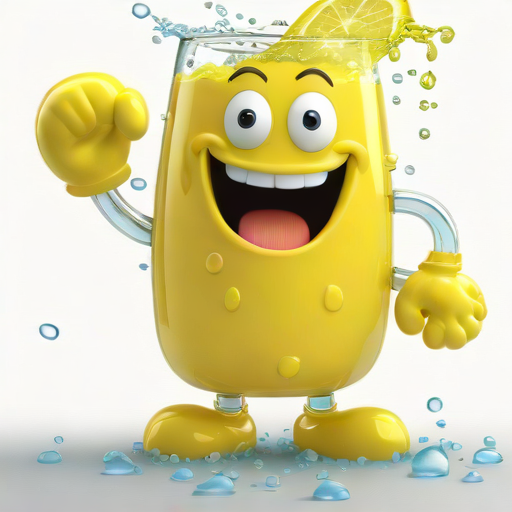
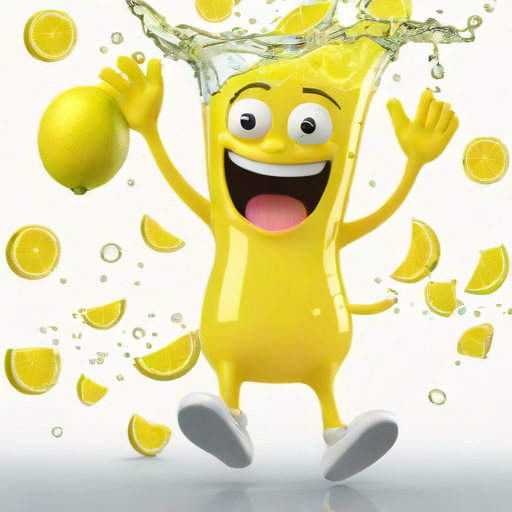
Make lemon expressions much more distinct and fix featureless no.png
CRITICAL FIXES:
   - Removed 'CRYING, TEARS, SOBBING' intensity that made model skip features
   - NOW: 'SAD face with visible eyes and mouth, LARGE DOWNTURNED FROWN'
   - Added 'no face, featureless' to negative prompt
   - Changed to 'single tear drop on cheek' instead of 'tears streaming'
   - More moderate sadness that still shows facial features

2. Made ALL expressions MORE DISTINCT:

   no: 'SAD DISAPPOINTED, LARGE DOWNTURNED FROWN, sad droopy eyes with single tear'

   dont_know: 'eyes CROSSED looking at each other, mouth in wide O shape, SHRUGGING shoulders up high'

   probably_not: 'both eyebrows FURROWED DOWN, DEEP FROWN, arms CROSSED tightly, very dubious'

   probably: 'slight OPTIMISTIC SMILE, one hand on chin, hopeful but uncertain'

   yes: 'HUGE WIDE GRIN ear to ear, both arms raised HIGH above head'

   neutral: 'simple dot eyes, straight horizontal line mouth'

3. Better body language specificity:
   - dont_know: 'both hands on head scratching, SHRUGGING shoulders up high'
   - probably_not: 'arms CROSSED tightly, head tilted to side'
   - no: 'arms hanging down at sides, shoulders slumped'

KEPT: SDXL-turbo optimal (4 steps, CFG 1.0, varied seeds)

To regenerate: rm -rf public/lemon-assets/*.png && npm run setup:lemon

diff --git a/scripts/setup-lemon.ts b/scripts/setup-lemon.ts
@@ -19,28 +19,28 @@ type ExpressionPrompt = {
 
 const EXPRESSION_PROMPTS: Record<LemonExpression, ExpressionPrompt> = {
   neutral: {
-    positive: 'NEUTRAL EXPRESSION, straight horizontal mouth line, expressionless face, blank stare, emotionless',
-    negative: 'frowning, sad, angry, crying, extreme emotions, laughing, smiling, grinning, happy',
+    positive: 'NEUTRAL EXPRESSION, simple dot eyes, straight horizontal line mouth, completely blank emotionless face, standing still',
+    negative: 'frowning, sad, angry, crying, extreme emotions, laughing, smiling, grinning, happy, cheerful',
   },
   yes: {
-    positive: 'EXTREMELY HAPPY EXCITED JOYFUL, HUGE WIDE OPEN MOUTH SMILE, eyes sparkling with excitement, jumping for joy, arms raised in celebration, pure happiness, ecstatic',
-    negative: 'sad, frowning, crying, disappointed, neutral, calm, serious',
+    positive: 'EXTREMELY HAPPY EXCITED JOYFUL, HUGE WIDE GRIN ear to ear, eyes wide open and sparkling, both arms raised HIGH above head in celebration, jumping, pure ecstatic happiness',
+    negative: 'sad, frowning, crying, disappointed, neutral, calm, serious, tired',
   },
   no: {
-    positive: 'EXTREMELY SAD UNHAPPY CRYING, TEARS STREAMING DOWN, DEEP FROWN, mouth turned completely down, sobbing, devastated depressed heartbroken, eyes closed in sadness',
-    negative: 'smiling, happy, grinning, cheerful, laughing, positive, excited, neutral',
+    positive: 'SAD DISAPPOINTED face with visible eyes and mouth, LARGE DOWNTURNED FROWN mouth, sad droopy eyes with single tear drop on cheek, arms hanging down at sides looking dejected, shoulders slumped',
+    negative: 'smiling, happy, grinning, cheerful, laughing, positive, excited, neutral, no face, featureless',
   },
   probably: {
-    positive: 'THOUGHTFUL PONDERING THINKING, hand touching chin in thought, SERIOUS analytical face, furrowed brow, eyes narrowed in concentration, calculating expression',
-    negative: 'laughing, big grin, sad, crying, confused, angry, smiling, happy, cheerful',
+    positive: 'THOUGHTFUL PONDERING expression, one hand on chin, slight OPTIMISTIC SMILE, one eyebrow raised slightly, eyes looking upward thinking, considering possibilities, hopeful but uncertain',
+    negative: 'laughing, big grin, sad, crying, very confused, angry, frowning, negative',
   },
   probably_not: {
-    positive: 'SKEPTICAL SUSPICIOUS DOUBTFUL, one eyebrow raised high, arms crossed defensively, squinting eyes, NOT convinced, questioning look, distrustful, FROWNING',
-    negative: 'smiling broadly, very happy, enthusiastic, excited, sad, crying',
+    positive: 'SKEPTICAL DOUBTFUL SUSPICIOUS face, both eyebrows FURROWED DOWN, DEEP FROWN mouth, arms CROSSED tightly, eyes narrowed in distrust, head tilted to side in disbelief, very dubious',
+    negative: 'smiling, happy, enthusiastic, excited, laughing, cheerful, grinning, positive',
   },
   dont_know: {
-    positive: 'EXTREMELY CONFUSED BEWILDERED LOST, scratching head with both hands, question marks floating above head, eyes looking in different directions, mouth open in confusion, shrugging shoulders, completely puzzled, PERPLEXED',
-    negative: 'smiling confidently, happy, certain, sad, angry, cheerful, grinning',
+    positive: 'VERY CONFUSED BEWILDERED, both hands on head scratching, eyes CROSSED looking at each other, mouth in wide O shape, SHRUGGING shoulders up high, question mark floating near head, completely baffled perplexed',
+    negative: 'smiling, happy, confident, certain, sad crying, angry, cheerful, grinning, laughing',
   },
 }
 
